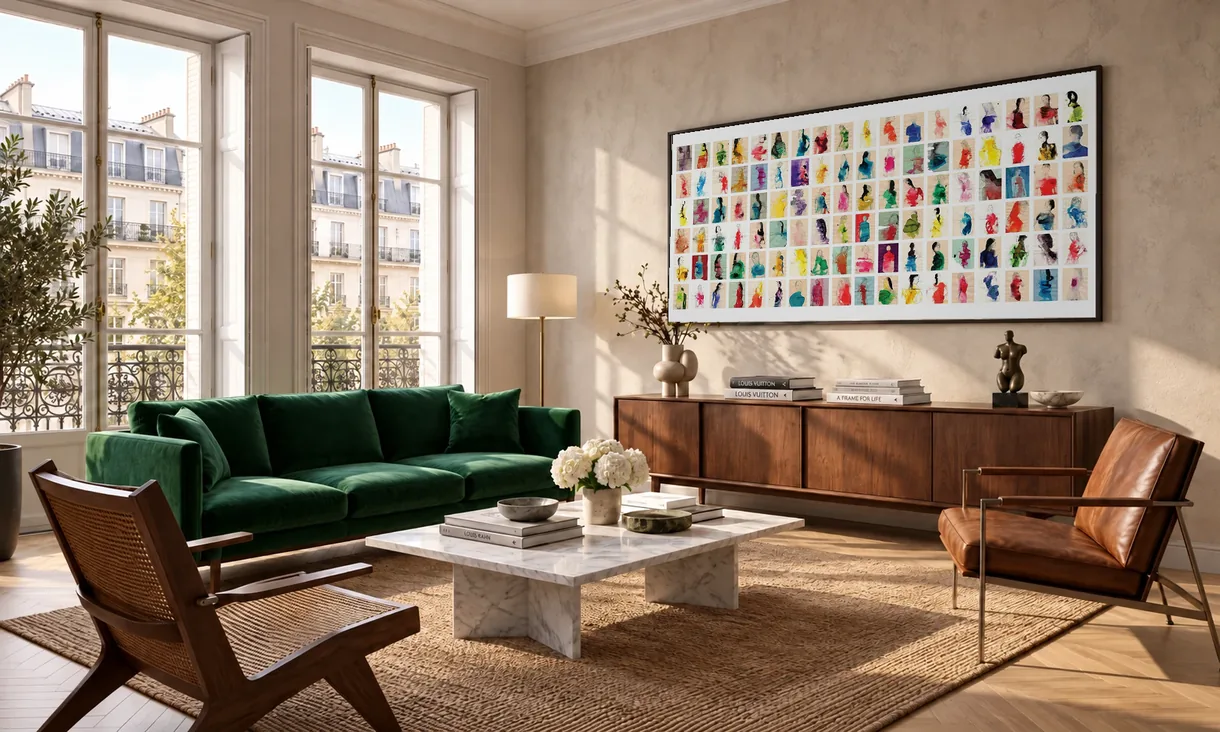
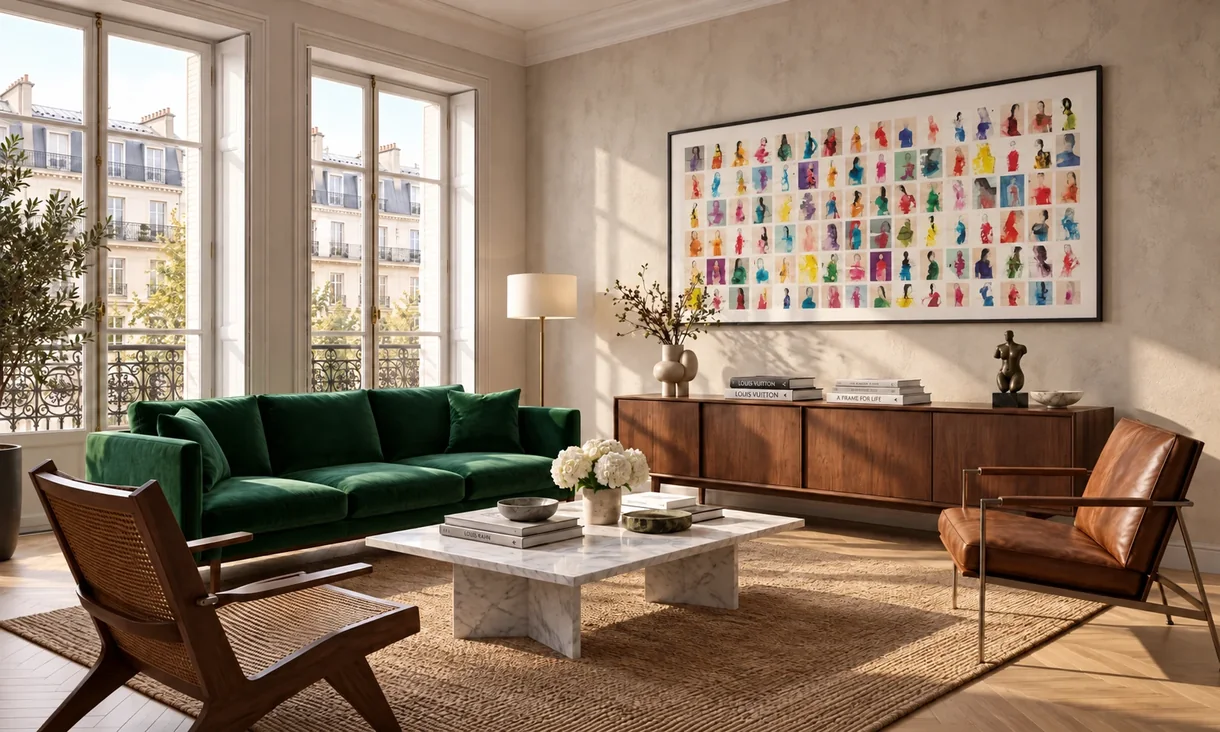
Marianna Gefen: use the supplied room render unchanged
Reverts the composite. The room now ships exactly as delivered, largest
rendition at native 1619x971. The artwork on the wall is the generated
one, which the handoff records as a decision rather than an oversight.

Changed region(s): [[0.5295, 0.0902, 0.9033, 0.4508]]

diff --git a/onsite-alignment/marianna-gefen/index.html b/onsite-alignment/marianna-gefen/index.html
@@ -134,7 +134,7 @@
         <source srcset="artist-in-focus/marianna-gefen/lp-raum-02-500x300.webp" width="500" height="300" media="all and (max-width: 760px)" type="image/webp">
         <source srcset="artist-in-focus/marianna-gefen/lp-raum-02-900x540.webp" width="900" height="540" media="all and (max-width: 979px)" type="image/webp">
         <source srcset="artist-in-focus/marianna-gefen/lp-raum-02-1220x732.webp" width="1220" height="732" media="all and (max-width: 1259px)" type="image/webp">
-        <source srcset="artist-in-focus/marianna-gefen/lp-raum-02-1600x960.webp" width="1600" height="960" media="all and (min-width: 1260px)" type="image/webp">
+        <source srcset="artist-in-focus/marianna-gefen/lp-raum-02-1619x971.webp" width="1619" height="971" media="all and (min-width: 1260px)" type="image/webp">
         <img property="schema:image" class="max-w-full width-full height-auto" src="artist-in-focus/marianna-gefen/lp-raum-02-1220x732.jpg" width="1220" height="732" alt="Favourites hanging above a walnut sideboard in a bright Parisian apartment, tall windows and a green velvet sofa opposite" title="Marianna Gefen, Favourites">
       </picture>
     </a>
